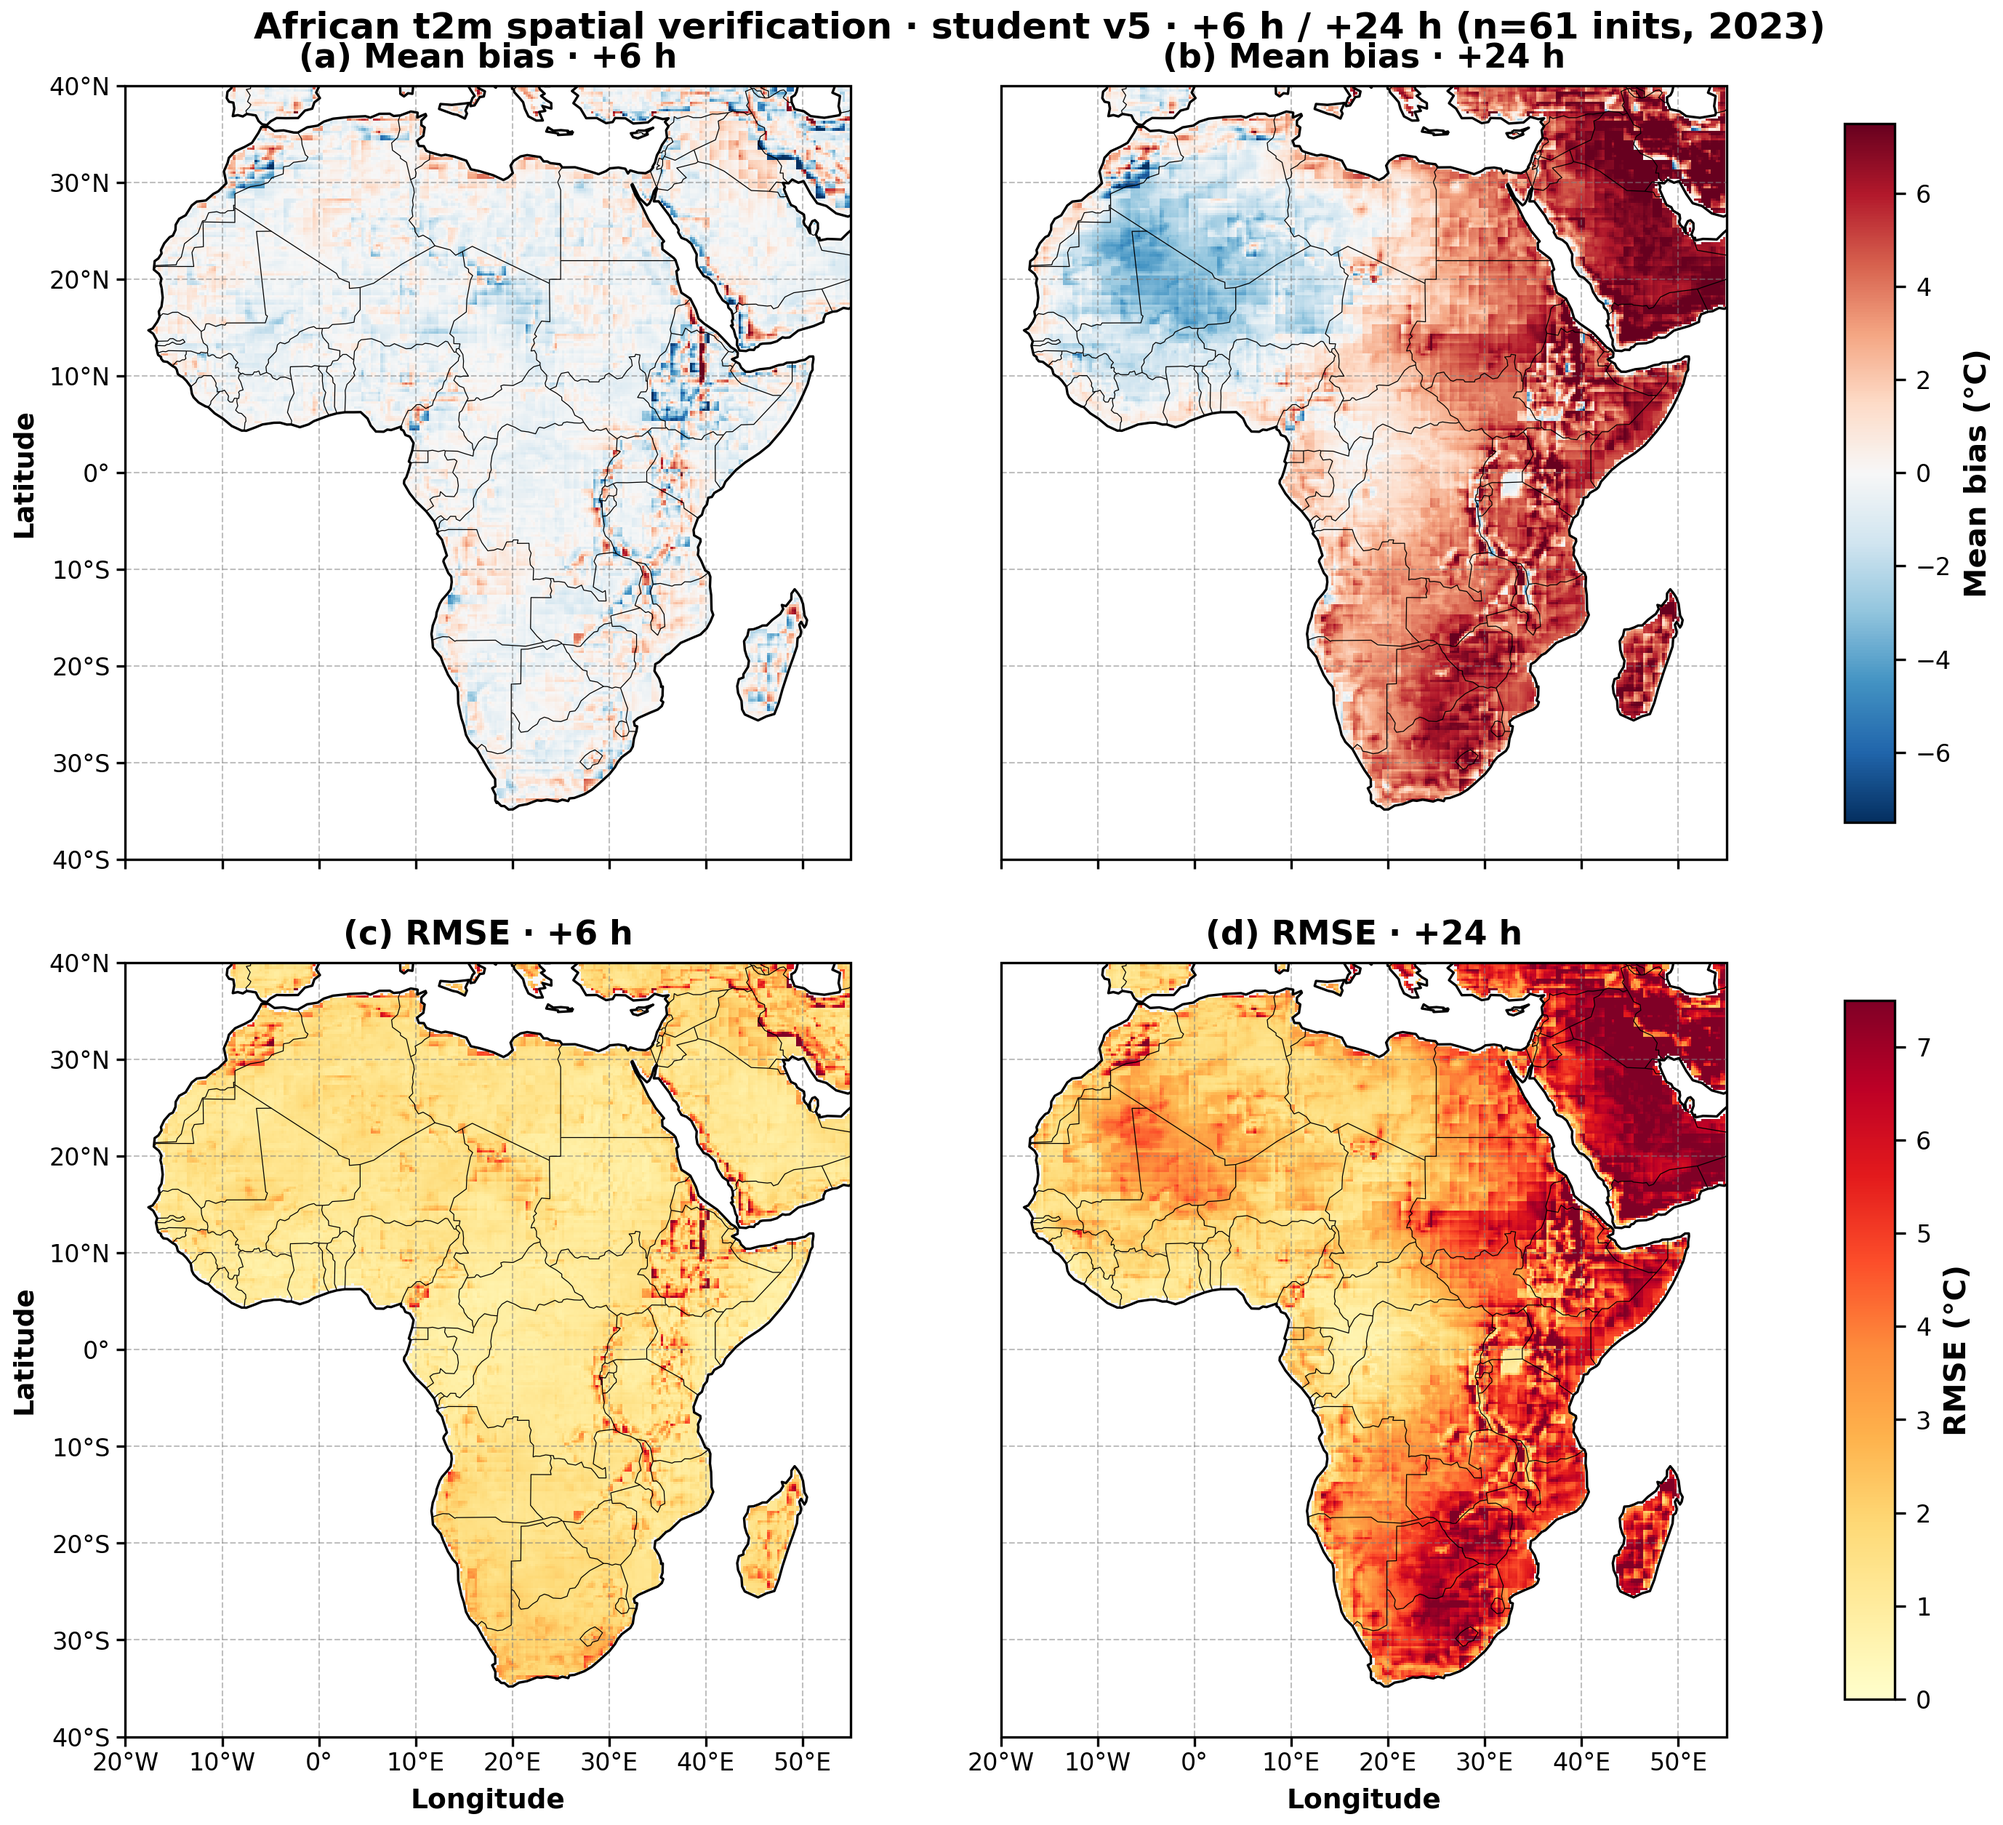
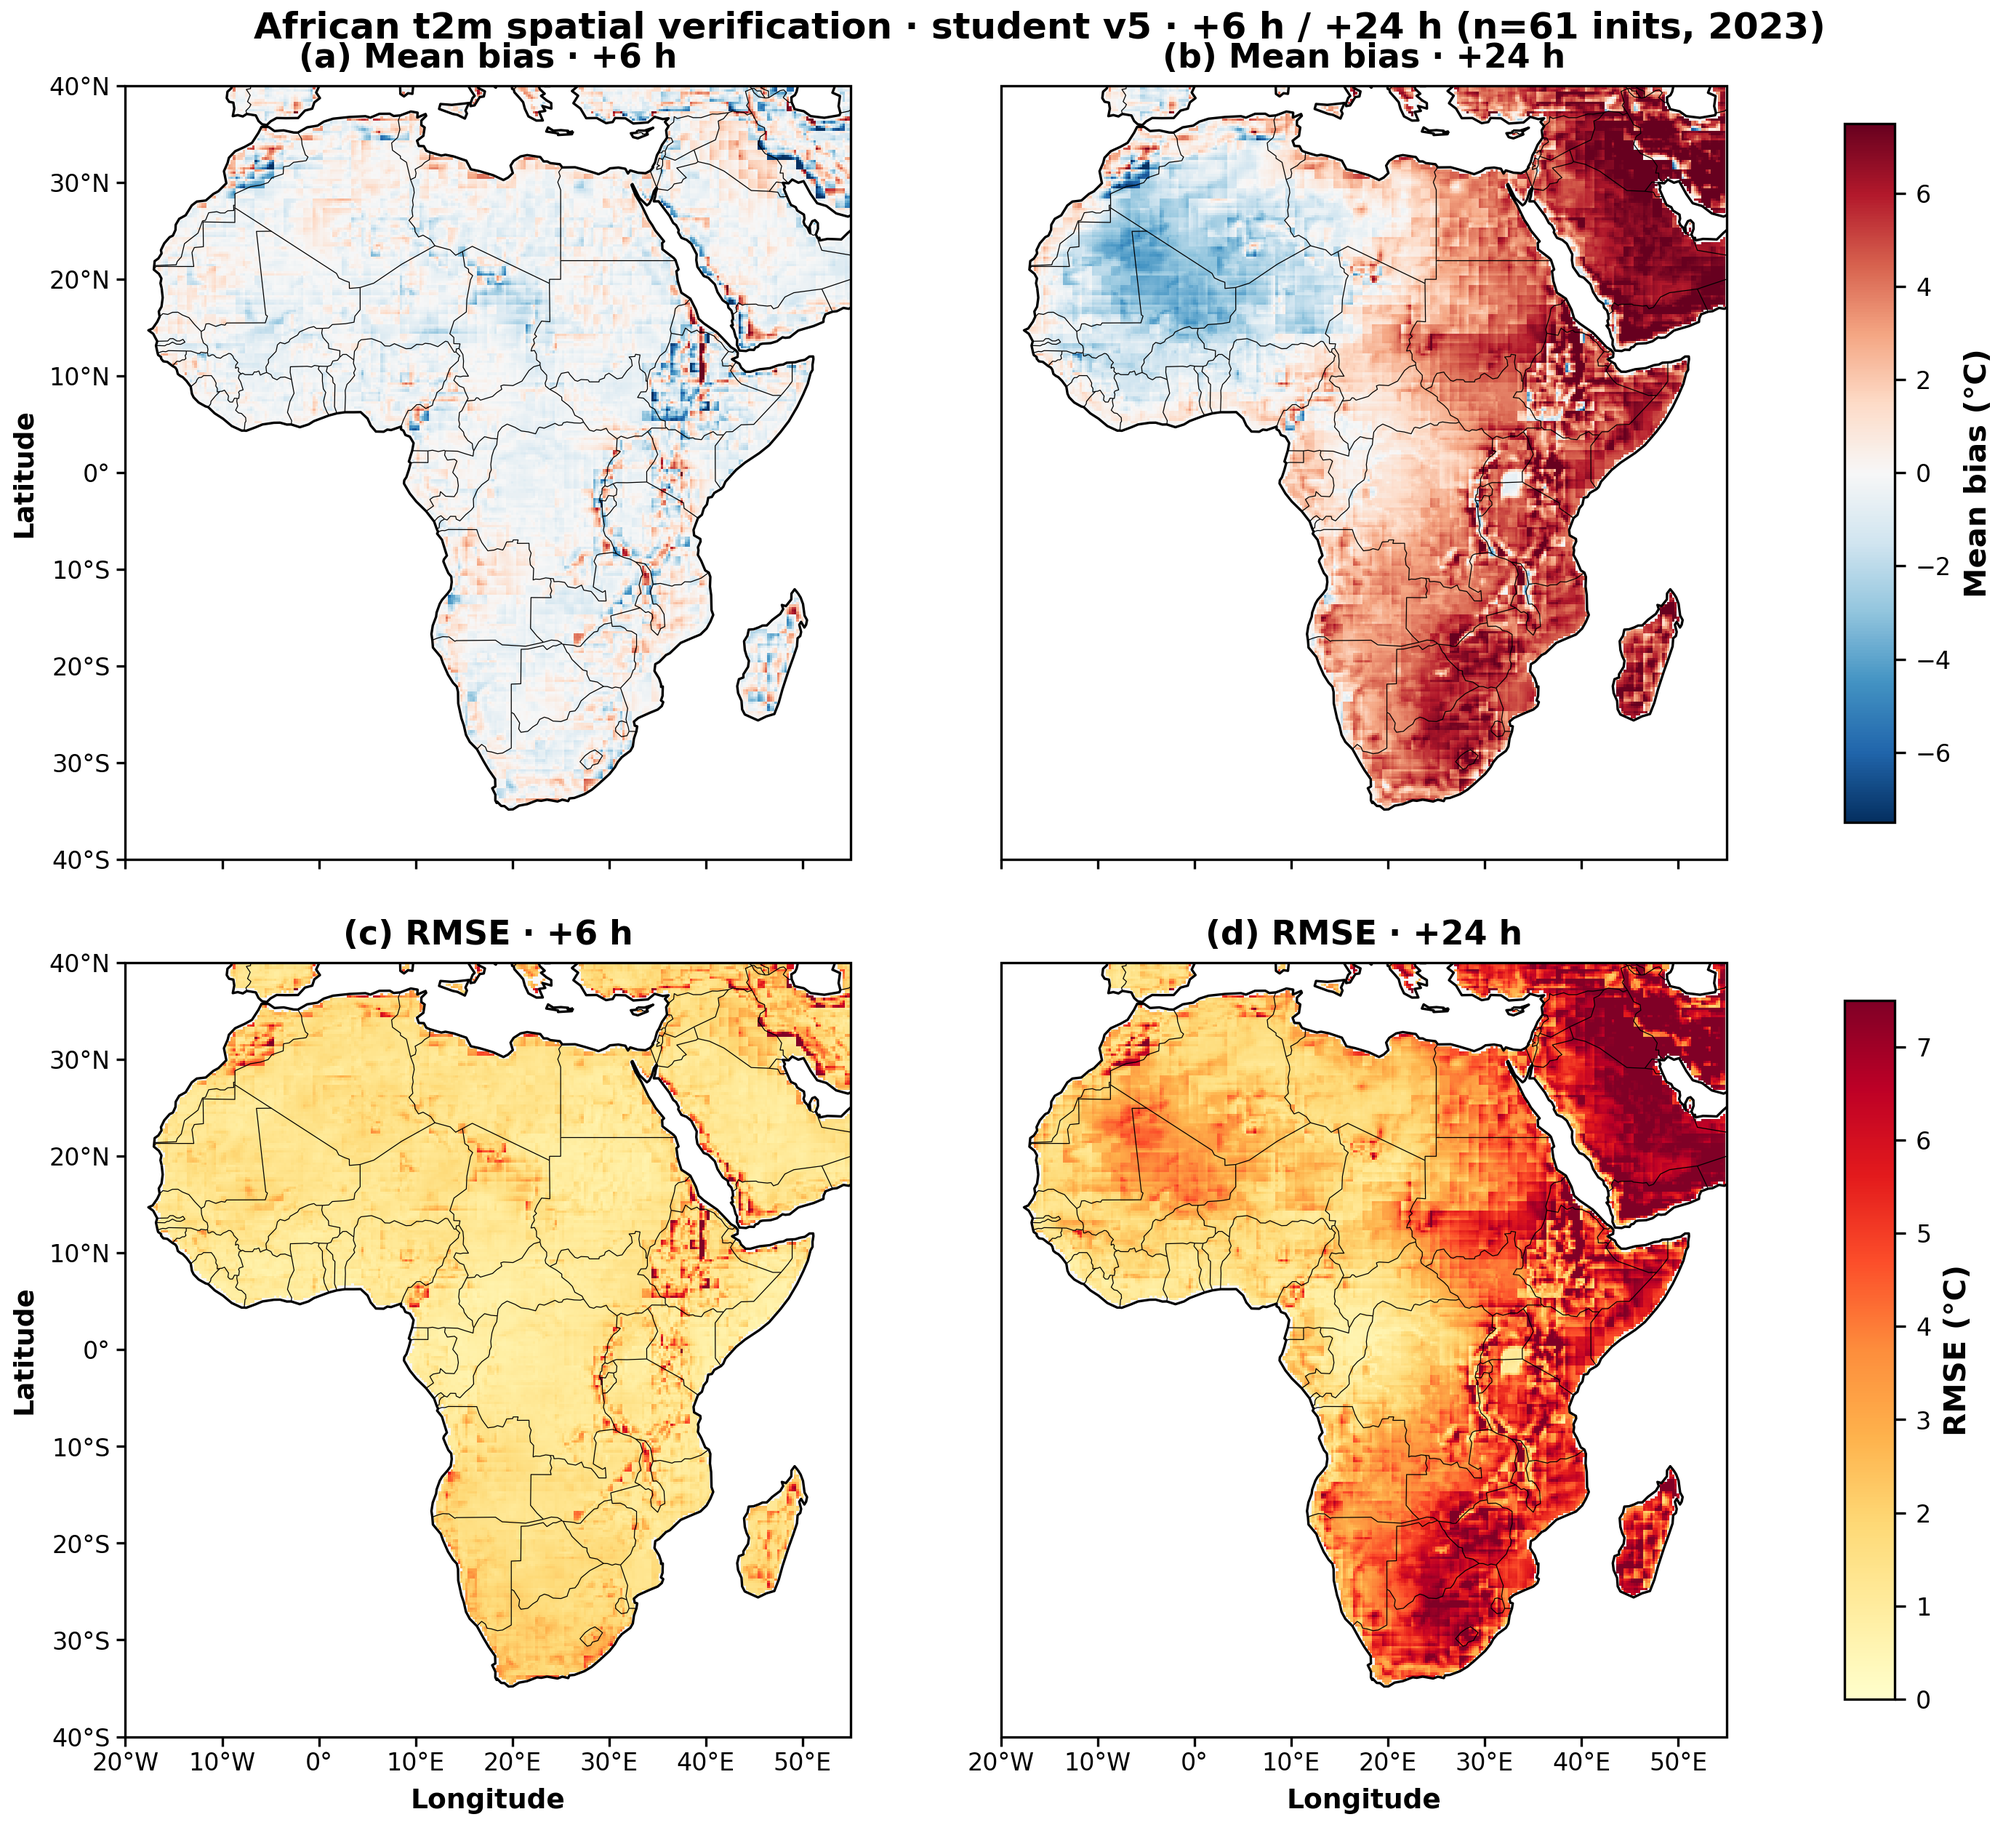
Turn off lat/lon gridlines on Fig.10 spatial quad.
Keep tick labels; dashed cartopy grid is off for a cleaner publication panel.

diff --git a/evaluation/plot_africa_spatial.py b/evaluation/plot_africa_spatial.py
@@ -112,6 +112,7 @@ def plot_africa_field(
     mask_ocean: bool = True,
     left_labels: bool = True,
     bottom_labels: bool = True,
+    draw_grid: bool = True,
 ):
     """Draw one Africa map in IOD publication style. Returns the pcolormesh mappable."""
     lon = np.asarray(lon)
@@ -153,17 +154,18 @@ def plot_africa_field(
         ax.add_feature(cfeature.BORDERS, linewidth=0.3, zorder=3)
         ax.add_feature(cfeature.COASTLINE, linewidth=0.8, edgecolor="black", zorder=4)
 
-        # Grid without labels (labels via set_xticks — more reliable than gridline labels)
-        ax.gridlines(
-            crs=ccrs.PlateCarree(),
-            draw_labels=False,
-            linewidth=0.5,
-            color="gray",
-            alpha=0.5,
-            linestyle="--",
-            xlocs=[-20, -10, 0, 10, 20, 30, 40, 50],
-            ylocs=[-40, -30, -20, -10, 0, 10, 20, 30, 40],
-        )
+        # Optional dashed lat/lon grid (off for compact publication quads)
+        if draw_grid:
+            ax.gridlines(
+                crs=ccrs.PlateCarree(),
+                draw_labels=False,
+                linewidth=0.5,
+                color="gray",
+                alpha=0.5,
+                linestyle="--",
+                xlocs=[-20, -10, 0, 10, 20, 30, 40, 50],
+                ylocs=[-40, -30, -20, -10, 0, 10, 20, 30, 40],
+            )
         xticks = [-20, -10, 0, 10, 20, 30, 40, 50]
         yticks = [-40, -30, -20, -10, 0, 10, 20, 30, 40]
         ax.set_xticks(xticks, crs=ccrs.PlateCarree())
@@ -196,7 +198,8 @@ def plot_africa_field(
         im = ax.pcolormesh(lon, lat, field_ma, cmap=cmap, vmin=vmin, vmax=vmax, shading="auto")
         ax.set_xlim(AFRICA_EXTENT["lon_min"], AFRICA_EXTENT["lon_max"])
         ax.set_ylim(AFRICA_EXTENT["lat_min"], AFRICA_EXTENT["lat_max"])
-        ax.grid(True, alpha=0.3, linestyle="--")
+        if draw_grid:
+            ax.grid(True, alpha=0.3, linestyle="--")
         # Titles applied once at end (after optional colorbar)
 
     if add_colorbar:
@@ -453,6 +456,7 @@ def write_quad_spatial_figure(
             add_colorbar=False,
             left_labels=(col == 0),
             bottom_labels=(row == 1),
+            draw_grid=False,
         )
         ims.append(im)
         if row == 0:
